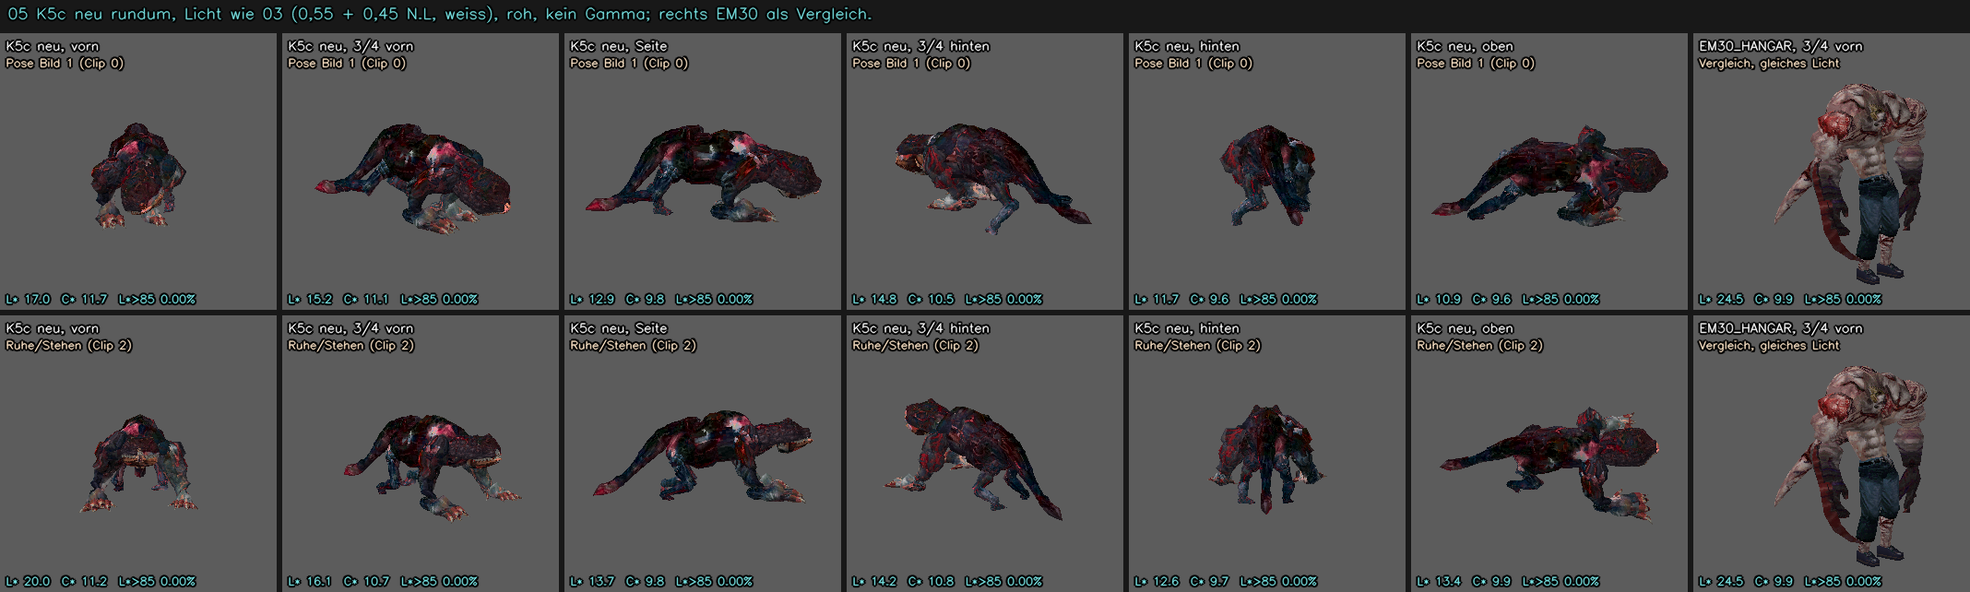
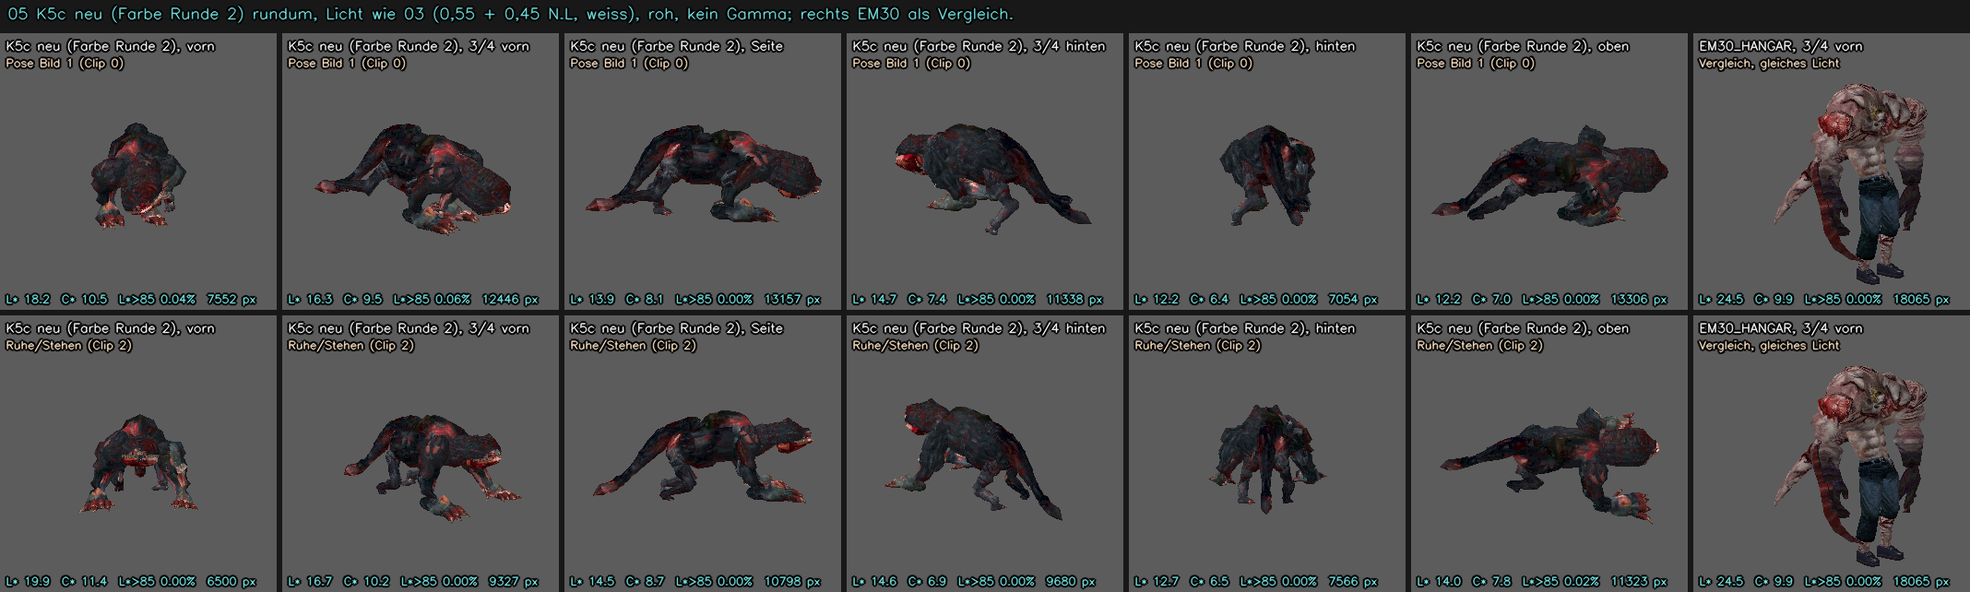
docs(form-farbe): Tafeln 01-07, Spiellauf mit K4-Vergleich und Dossier FARBE.md zur K5c-Farbe Runde 2
- Tafeln roh, kein Gamma: 01/02 nennen jetzt den Kanalfaktor k aus pruefung/licht.json (Befund r1),
  03 nennt die Figurgroesse in px (Fairness-Befund r1), 07 zeigt je Szene Original | K4 heute |
  K5c neu und wird von kf_tafeln.py 07 zusammengesetzt (vorher unversioniert).
- kf_spiel.sh --mit-heute: dieselben 5 Szenen ohne Kandidat (Spiel-Asset = K4 heute); echtes Fenster,
  gdigrab, eigene exe-Kopie, kein AUTOSHOT/SOFTWARE_RENDER. spiel.log 5/5 rc=0, spiel_heute.log 5/5 rc=0.
  Runde-1-Spielbilder nach farbe/spiel_r1.
- FARBE.md (Runde 2): Ursache in Zahlen, Vorgehen, Verbleib jeder Runde-1-Konstante, Laufprotokoll
  v0-e21, Herkunft je Atlasfeld, Riegel Soll/Ist mit Gegenproben, Tafeln, Tests 11/11, Offen O1-O7.
  Runde-1-Dossier als FARBE_r1.md.

diff --git a/analysis/befunde_runde41/form/varianten/K5/generator/kf_tafeln.py b/analysis/befunde_runde41/form/varianten/K5/generator/kf_tafeln.py
@@ -1,8 +1,8 @@
 #!/usr/bin/env python3
-"""K5c Farbe, Runde 1: Nutzer-Tafeln 01-06 nach MESSBLATT_FARBE_V1 Abschnitt 7 (roh, kein Gamma auf irgendeine Kachel; Szenenlicht neben dem
+"""K5c Farbe (Runde 1 und 2): Nutzer-Tafeln 01-07 nach MESSBLATT_FARBE_V1 Abschnitt 7 (roh, kein Gamma auf irgendeine Kachel; Szenenlicht neben dem
 Screenshot; Familienkachel mit gleichem Renderer und Licht; Zahlen L*, C*, L*>85 in der Beschriftung).
 
-    python kf_tafeln.py <neu-Ordner> <aus-Ordner>
+    python kf_tafeln.py <neu-Ordner> <aus-Ordner> [01 .. 07]     (Name der Variante: Umgebung KF_NAME, Standard 'K5c neu (Farbe Runde 2)')
 
 01_szene_bild1.png  Bild 1 Original | K4 heute | K5c neu: Zeile 1 Spiellicht roh (form_pruefung.Kandidat.rendern 'mess'), Zeile 2 durch
                     form_video.video_filter (entzerren=False, rauschen=True) wie die Abfilmung
@@ -12,6 +12,7 @@ Screenshot; Familienkachel mit gleichem Renderer und Licht; Zahlen L*, C*, L*>85
 05_rundum_neu.png   K5c neu in Pose Bild 1 (Clip 0) und Ruhe/Stehen (Clip 2), 6 Winkel, Licht wie 03; EM30 als Vergleichskachel je Zeile
 06_kopf_nah.png     Kopf/Kiefer: Zeile 1 Bild-2-Ausschnitt x 200-360, y 290-420, 3-fach: Original | Original T | K5c neu Kette | K5c heute Kette;
                     Zeile 2 Kopf+Kiefer (Mesh 21-23) neu, K5c heute und RE2-G4-Kopf (Mesh 26) unter dem Licht von 03, 3 Winkel"""
+import json
 import math
 import os
 import sys
@@ -33,6 +34,8 @@ K5 = os.path.normpath(os.path.join(HIER, '..'))
 K4 = os.path.join(K5, 'K4_heute')
 K5C = os.path.join(K5, 'K5c')
 GRUND = 92      # Hintergrund der render.blick-Kacheln (render.py)
+NEU = os.environ.get('KF_NAME', 'K5c neu (Farbe Runde 2)')
+LICHT_K = json.load(open(os.path.normpath(os.path.join(K5, '..', '..', 'pruefung', 'licht.json')), encoding='utf-8'))   # form_pruefung.licht_fuer
 
 
 class _Tex:
@@ -54,7 +57,7 @@ def re2_mo(kind):
 
 def masse_text(img, msk):
     m = R.masse(img, msk)
-    return 'L* %.1f  C* %.1f  L*>85 %.2f%%' % (m['L'], m['C'], m['hell85'])
+    return 'L* %.1f  C* %.1f  L*>85 %.2f%%  %d px' % (m['L'], m['C'], m['hell85'], m['px'])
 
 
 def kachel(img, titel, unter=None, zeile2=None):
@@ -95,24 +98,25 @@ def szene(n, neu, aus):
     zeilen = []
     for art in ('sauber', 'video'):
         ks = [kachel(o[y0:y1, x0:x1], 'Bild %d Original (Video-Standbild)' % n, None, 'roh, kein Gamma')]
-        for nm, d in (('K4 heute (Spiel-Asset)', K4), ('K5c neu (Farbe Runde 1)', neu)):
+        for nm, d in (('K4 heute (Spiel-Asset)', K4), (NEU, neu)):
             k = PZ.P.Kandidat(os.path.join(d, 'form.json'))
             s, alb, m, kk = k.rendern(n)
             if art == 'video':
                 s = np.asarray(PZ.FV.video_filter(s, bild=n, entzerren=False, rauschen=True), np.uint8)
-            t2 = ('Spiellicht %s, roh, kein Gamma' % ('ROOM5080' if n == 1 else 'ROOM5090 Cut 11')) if art == 'sauber' else \
-                'Spiellicht + Videofilter (form_video), kein Gamma'
+            kk_ = '/'.join(('%.2f' % v).replace('.', ',') for v in LICHT_K['bild%d' % n]['k'])
+            t2 = ('Disc-Licht %s x k (%s), roh' % ('5080 Cut 2' if n == 1 else '5090 Cut 11', kk_)) if art == 'sauber' else \
+                'dasselbe + Videofilter (form_video), roh'
             ks.append(kachel(s[y0:y1, x0:x1], nm, None, t2))
         zeilen.append(H.reihe([cv2.resize(k, (k.shape[1] * 2, k.shape[0] * 2), interpolation=cv2.INTER_NEAREST) for k in ks]))
     t = H.stapel(zeilen)
-    kopf = H.kopfzeile('%02d Bild %d: Original | K4 heute | K5c neu. Zeile 1 Spiellicht roh, Zeile 2 durch den Videofilter wie die Abfilmung. '
-                       'Kein Gamma, keine Aufhellung.' % (n, n), t.shape[1])
+    kopf = H.kopfzeile('%02d Bild %d: Original | K4 heute | %s. Z.1 Disc-Licht x Kanalfaktor k (pruefung/licht.json, beide gleich), '
+                       'Z.2 + Videofilter. Kein Gamma.' % (n, n, NEU), t.shape[1])
     cv2.imwrite(aus, H.stapel([kopf, t]))
 
 
 def familie(neu, aus):
     modelle = [('EM30_HANGAR (Spiel, Clip 0)', fl.lade_em30(), 0), ('RE2-G5 (Typ 0x36, Clip 0)', re2_mo(0x36), 0),
-               ('RE2-G4 (Typ 0x34, Clip 0)', re2_mo(0x34), 0), ('K5c neu (Clip 2 Ruhe)', fl.lade_var(neu), 2),
+               ('RE2-G4 (Typ 0x34, Clip 0)', re2_mo(0x34), 0), (NEU + ' (Clip 2)', fl.lade_var(neu), 2),
                ('K4 heute (Clip 2)', fl.lade_var(K4), 2)]
     zeilen = []
     for wt, az, el in R.WINKEL:
@@ -122,8 +126,8 @@ def familie(neu, aus):
             ks.append(kachel(img, nm, masse_text(img, msk), '%s, Licht 0,55+0,45 N.L, roh' % wt))
         zeilen.append(H.reihe(ks))
     t = H.stapel(zeilen)
-    kopf = H.kopfzeile('03 Familie: gleicher Renderer (form_buehne.rastern), gleiches weisses Licht, gleiche Groesse (Umkugel 0,46), roh, kein Gamma. '
-                       'Masse nur Figurpixel.', t.shape[1])
+    kopf = H.kopfzeile('03 Familie: gleicher Renderer, gleiches weisses Licht, Umkugel 0,46, roh, kein Gamma. Masse nur Figurpixel; px = Figurgroesse '
+                       '(Vierbeiner ~halb so viele Pixel wie G4).', t.shape[1])
     cv2.imwrite(aus, H.stapel([kopf, t]))
 
 
@@ -144,7 +148,7 @@ def palette_feld(rgb, breite):
 def atlas(neu, aus):
     from p_messen import atlas as p_atlas
     ks = []
-    for nm, mo in (('EM30_HANGAR (Spiel)', PL.em30()), ('K5c neu', PL.var(neu)), ('K5c heute', PL.var(K5C))):
+    for nm, mo in (('EM30_HANGAR (Spiel)', PL.em30()), (NEU, PL.var(neu)), ('K5c heute', PL.var(K5C))):
         per, _ = PL.sammeln(mo)
         rgb, mid = p_atlas(mo, per)
         im = rgb.copy()
@@ -174,12 +178,12 @@ def rundum(neu, aus):
         ks = []
         for wt, az, el in WINKEL6:
             img, msk = R.blick(mo, R.kf(mo, c), az, el, 300, None)
-            ks.append(kachel(img, 'K5c neu, %s' % wt, masse_text(img, msk), nm))
+            ks.append(kachel(img, '%s, %s' % (NEU, wt), masse_text(img, msk), nm))
         img, msk = R.blick(em, R.kf(em, 0), 45, 15, 300, None)
         ks.append(kachel(img, 'EM30_HANGAR, 3/4 vorn', masse_text(img, msk), 'Vergleich, gleiches Licht'))
         zeilen.append(H.reihe(ks))
     t = H.stapel(zeilen)
-    kopf = H.kopfzeile('05 K5c neu rundum, Licht wie 03 (0,55 + 0,45 N.L, weiss), roh, kein Gamma; rechts EM30 als Vergleich.', t.shape[1])
+    kopf = H.kopfzeile('05 ' + NEU + ' rundum, Licht wie 03 (0,55 + 0,45 N.L, weiss), roh, kein Gamma; rechts EM30 als Vergleich.', t.shape[1])
     cv2.imwrite(aus, H.stapel([kopf, t]))
 
 
@@ -189,7 +193,7 @@ def kopf_nah(neu, aus):
     T, _c = PZ.rueck(o, 2)
     ks = [kachel(o[y0:y1, x0:x1], 'Original Bild 2', None, 'Video, roh'), kachel(np.clip(T, 0, 255).astype(np.uint8)[y0:y1, x0:x1], 'Original T',
                                                                                     None, 'zurueckgerechnet (p_zonen.rueck)')]
-    for nm, d in (('K5c neu', neu), ('K5c heute', K5C)):
+    for nm, d in ((NEU, neu), ('K5c heute', K5C)):
         k = PZ.P.Kandidat(os.path.join(d, 'form.json'))
         s, alb, m, kk = k.rendern(2)
         v = np.asarray(PZ.FV.video_filter(s, bild=2, entzerren=False, rauschen=True), np.uint8)
@@ -200,7 +204,7 @@ def kopf_nah(neu, aus):
     g4 = re2_mo(0x34)
     for wt, az, el in (('3/4 vorn', 60, 10), ('Seite', 0, 5), ('unten vorn', 80, -30)):
         ks = []
-        for nm, mo, c, teile in (('K5c neu Kopf+Kiefer', fl.lade_var(neu), 1, (21, 22, 23)), ('K5c heute Kopf+Kiefer', fl.lade_var(K5C), 1, (21, 22, 23)),
+        for nm, mo, c, teile in ((NEU + ' Kopf+Kiefer', fl.lade_var(neu), 1, (21, 22, 23)), ('K5c heute Kopf+Kiefer', fl.lade_var(K5C), 1, (21, 22, 23)),
                                  ('RE2-G4 Kopf (Mesh 26)', g4, 0, (26,))):
             img, msk = blick_teile(mo, R.kf(mo, c), az, el, 300, teile)
             ks.append(kachel(img, nm, masse_text(img, msk), '%s, Licht wie 03, roh' % wt))
@@ -211,10 +215,40 @@ def kopf_nah(neu, aus):
     cv2.imwrite(aus, H.stapel([kopf, t]))
 
 
+SPIEL = (('spiel_pose1_nachstellung_r5080.png', 1, 'ROOM5080 Schnitt 1, Nachstellung Bild 1 (Clip 0)'),
+         ('spiel_pose1_r5080_s1.png', 1, 'ROOM5080 Schnitt 1, Lage Bild 1 (Clip 0)'),
+         ('spiel_ruhe_r5080_s1.png', 1, 'ROOM5080 Schnitt 1, Ruhe (Clip 2)'),
+         ('spiel_pose2_r5090_s11.png', 2, 'ROOM5090 Schnitt 11, Pose Bild 2 (Clip 1)'),
+         ('spiel_ruhe_r5090_s11.png', 2, 'ROOM5090 Schnitt 11, Ruhe (Clip 2)'))
+
+
+def spiel(spd, aus):
+    """07: je Zeile Original-Standbild (Bild 1 bzw. 2) | K4 heute im Spiel | Variante im Spiel. Spielbilder aus kf_spiel.sh (gdigrab), unbearbeitet."""
+    zeilen = []
+    for f, n, txt in SPIEL:
+        a = os.path.join(spd, 'heute_' + f)
+        b = os.path.join(spd, f)
+        if not (os.path.exists(a) and os.path.exists(b)):
+            continue
+        o = cv2.imread(PZ.FORM + '/bild%d.png' % n)
+        ks = [o, cv2.imread(a), cv2.imread(b)]
+        ks = [cv2.resize(k, (640, 480), interpolation=cv2.INTER_NEAREST) if k.shape[:2] != (480, 640) else k.copy() for k in ks]
+        for k, t in zip(ks, ('Original Bild %d (Video-Standbild)' % n, 'K4 heute im Spiel: ' + txt, NEU + ' im Spiel: ' + txt)):
+            H.schrift(k, t, 6, 18, 0.45)
+            H.schrift(k, 'echtes Fenster (gdigrab), roh, kein Gamma', 6, 36, 0.4, (200, 230, 255))
+        zeilen.append(H.reihe(ks))
+    t = H.stapel(zeilen)
+    kopf = H.kopfzeile('07 Spiel: eigene exe-Kopie, Kandidat ueber RE15_RE2_ASSET_ROOT (re15_port/tools/form_spiel.sh), echtes Fenster, kein AUTOSHOT, '
+                       'kein SOFTWARE_RENDER. Links das Original-Standbild derselben Szene.', t.shape[1])
+    cv2.imwrite(aus, H.stapel([kopf, t]))
+
+
 if __name__ == '__main__':
     neu, ausd = sys.argv[1], sys.argv[2]
     os.makedirs(ausd, exist_ok=True)
     nur = sys.argv[3:] or ['01', '02', '03', '04', '05', '06']
+    if '07' in nur:
+        spiel(os.path.join(ausd, 'spiel'), os.path.join(ausd, '07_spiel.png'))
     if '01' in nur:
         szene(1, neu, os.path.join(ausd, '01_szene_bild1.png'))
     if '02' in nur:

diff --git a/analysis/befunde_runde41/form/varianten/K5/FARBE.md b/analysis/befunde_runde41/form/varianten/K5/FARBE.md
@@ -1,0 +1,192 @@
+# K5c Farbe, Runde 2 von 3 (Bauer, 2026-11-06)
+
+Auftrag: Orchestrator, Spur Form. Die Riesenform K5c ("eher c") neu texturieren nach `MESSBLATT_FARBE_V1.md` und jeden Befund der Pruefung
+Runde 1 (`FARBE_PRUEFUNG_r1_sicht.md`, `FARBE_PRUEFUNG_r1_zahlen.md`) beheben. Runde 1 steht in `FARBE_r1.md`, ihre Variante in `farbe/K5c_farbe_r1/`.
+Geometrie, Clips, UV, Dreiecke unveraendert: `farbe/K5c_farbe/FORM.EMD` = `farbe/K5C_FARBE.EMD` = `K5c/FORM.EMD` (cmp, sha256 a71f8d08...), 3828 Flaechen.
+Neu ist nur `FORM.TIM` (Texelindizes und 4 CLUT-Zeilen, gleiches Atlas-Layout). Kein RE-Wert: neues Modell (PORT-WAHL, NUTZER_ENTSCHEIDE E5/E19/E20).
+Seiten: (W) = aus Sicht des Wesens. Lab = CIE-Lab D65 (OpenCV float).
+
+## 0. Ergebnis
+
+**Riegel 24/29 GRUEN, Exit 1.** ROT: K1, K2, N1, B1, B2 (Abschnitt 4). Die Gegenproben sind sauber: K5c heute 3/29 (nur die Halteriegel A10-A12),
+Runde 1 bei allen fuenf Befund-Riegeln B1-B5 ROT. Die Riegel messen also etwas.
+
+| | K5c heute | Runde 1 | **Runde 2** |
+|---|---|---|---|
+| Riegel (Messblatt 24 + Befund 5) | 3/29 | 24/24 + B 0/5 | **24/29** |
+| Neutralweiss A5 / Glanzrest B4 (p90 L\* ehem. Keime, <= 58) | 0,79 % / 100 | 0,00 % / 80,1 (gestaucht) | **0,00 % / 47,8 (entfernt)** |
+| Blau-Klasse im neutralen Render B3 (<= 0,10 %) | 2,4-5,0 % | 11,4-16,0 % | **0,00 %** |
+| Rot erosionsfest B1 (>= 32,1 %) / groesste Rotflaeche B2 (>= 3,2 %) | 21,5 / 1,19-0,61 | 20,0 / 3,26-1,70 | **28,0 / 3,65-2,45** |
+| Kopf-Gaumenklasse B5 (<= 2 %) | 15,1 % | 9,0 % | **1,0 %** |
+| Rot-Farbton A4 (15-50 Grad) | -10 | 19 (Median 16) | **26** |
+| Koerper C\* / Fleischrot (A1 / A3) | 4,9 / 0,5 % | 12,9 / 15,1 % | 11,8 / 22,4 % |
+| Bild-1-Kette C\* / ab-Streuung (K1 >= 7,9 / K2 >= 8,36) | 6,3 / 6,3 | 8,6 / 9,9 | **6,5 / 8,0 ROT** |
+| Neutraler Render C\* (N1 >= 7,5 / 9,4 / 7,9) | 4,6 / 5,0 / 4,0 | 10,7 / 9,8 / 10,7 | **10,2 / 8,8 / 6,9 ROT** |
+
+Ergebnis-Dateien: `farbe/K5C_FARBE.EMD` + `farbe/K5C_FARBE.TIM`, Variantenordner `farbe/K5c_farbe/` (FORM.EMD, FORM.TIM, form.json, bau.json mit
+Herkunft je Atlasfeld, masken.npz). Kopie im Scratchpad `formfarbe/emd/K5C_FARBE.EMD/.TIM`. Spiel-Asset `re15_port/shared_assets/RE2/BAHNSTEIG_FORM.*`
+und Pins unveraendert.
+
+## 1. Ursache der Ablehnung in Zahlen (Messblatt, Gegenprobe K5c heute)
+
+"Pokemon" = grau + Magenta-Augen + Creme-Maul + Weissflecken + Tafel-Aufhellung: Koerper C\* 4,9 gegen Familie 9,3-19,8; Fleischrot 0,5 % bei -10 Grad
+(Familie 11,5-38 % bei 25-48 Grad); sigma_ab je Teil 4,0 gegen 7,4-10,7; Kiefer 77 % Creme, HF 0,461; Augen (207,95,161) C\* 54; 0,79 % silberweisse
+Koerpertexel; Gamma 0,5/0,6 nur auf K5c. `riegel_farbe.py --gegenprobe K5c` ergibt dieselben Zahlen (Abschnitt 4, rechte Spalte).
+
+Runde 1 hatte das behoben, aber zwei neue "Pokemon"-Merkmale erzeugt (Sicht-Pruefer r1): **P1** alles Rot als helles Adernetz auf dunklem Grund
+(Erosionsrest 14-24 %, groesste Rotflaeche 286-483 px, Adern heller als die Haut), **P2** stahlblaugraue Beine (Blau-Klasse 10,6-14,7 %). Dazu
+(Zahlen-Pruefer r1) Glanzflecken nur gestaucht (ehemalige Weisstexel Lab (72,9/7,9/1,5)), beiger Gaumenstreifen x 500-511, Konstanten ohne Quelle.
+
+## 2. Vorgehen (`generator/kf_mal2.py`, Runde 1 `kf_mal.py` bleibt fuer den Nachbau unveraendert)
+
+Je Texel (Lab), Reihenfolge wie im Code:
+
+1. **Glanz und Gaumen entfernen** (Zahlen-Pruefer 6.1/6.6, Sicht-Pruefer P4): Keim = Neutralweiss nach A5 (L\* > 85, C\* < 10), Hof = angrenzende
+   Texel mit L\* > 58 (hellstes Original-Band, Messblatt 2 "T L\* 51-58"); Gaumen = Zahnklasse im Kopffeld (L\* > 60, C\* < 35, Messblatt 3) mit
+   demselben Hof. 881 + 2324 Texel werden im Ausgangsbild K5c **harmonisch aus der Umgebung gefuellt** (Laplace je Atlasfeld, kein Radius).
+   Keine Stauchung oberhalb L\* 70 mehr.
+2. **Grundton** = K5c-Grobbild (Gauss 2,5 Texel, normiert im Feld; Quelle kf_mal.py:40-42) mit a\*b\* x 1,48 (Messblatt 2).
+3. **Haut-Form** aus RE2-G4: Hautquellen mit Aderanteil <= 10 % (`G4_HAUT2`, Abschnitt 3), Helligkeits- und Farbform = Quelle minus Grobbild, aber
+   aus dem G4-Bild **ohne seine Adern** (Adern harmonisch gefuellt), sonst trug die Malform den roten Aderhof als Sprenkel (Lauf r2-v0). Die G4-Adern
+   selbst: L\* = 0,85 x Haut (EM30-Adern 23 gegen Haut 27, Sicht-Pruefer P1), C\* <= 1,50 x L\* (G4-Dunkelrot (18,9/25,6/12,2), Messblatt 1),
+   am Ende nach allen Versaetzen erneut begrenzt. 4449 Texel = 5,9 % der Haut.
+4. **Fleischflaechen** (P1): Anteil roter Original-Bildpunkte je Texel (Pruefer-Rotklasse, Bild 2 nach Abzug der Einstreuung a\* 12,8 = Kette 15,5
+   minus Albedo 2,7, Messblatt 2), im Feld harmonisch fortgesetzt (E11), Gauss 2,5 (E12/E13), **Mehrheitsschwelle 0,5** (E14). Material: G4-Fleisch
+   (181,224,20,30) und (179,229,24,24), in L\* und C\* auf das Mittel der Familienwunden skaliert (Sicht-Pruefer P5: EM30 (50/26/13), G4 (53/27/23)
+   -> (51,5/26,5/18,0)), Farbton der Quelle. **Verdeckte Unterseite**: die 23,9 % der Hauttexel mit der staerksten Normalen nach unten (Ruhepose
+   Clip 2, `kf_geo.py`; 23,9 % = G4-Fleischrot, Messblatt 1), nur nie gesehene Texel (E14), Kopffeld ausgenommen, Uebergang ueber 1,2 x 23,9 %
+   (Umring 19-20 %, P5), in der dunklen G4-Rotstufe (18,9/25,6/12,2). Fleisch gesamt 17 210 Texel (23,0 % der Haut).
+5. **Kiefer, Krallen** wie Runde 1 (G4-Maul (10,44,60,40) 90 Grad gedreht, G4-Krallen (231,200,20,50)); Kopienzahl = Umfang / Quellbreite
+   (5 bzw. 8), Zeilenversatz gleichverteilt (j x Hoehe / Kopien).
+6. **Zonenversatz** (Eichung gegen die Kette, Messblatt 2): sichtbare Texel nach Bildpunkten je Zone, verdeckte harmonisch im Feld.
+   **Zone = Bauteil**: die Bildzone Unterkiefer wirkt nur auf das Kieferfeld, alle anderen nie darauf. Runde 1 traf ueber die Unterkiefer-Zone
+   (L\* +38,7) hand_r (217 px), Kopf (502 px) und Unterschenkel (107 px): Ursache der hellen Pfote (Sicht-Pruefer P3) und eines Teils der Glanzreste.
+7. **Farbwechsel aus dem Original** (E10/E11, K2): je sichtbarem Hauttexel a\*b\* minus Zonenmittel der Original-Bildpunkte, ohne die roten Bildpunkte
+   (die tragen die Fleischflaeche), harmonisch fortgesetzt, Gauss 0,7 (E13).
+8. Zaehne (Bild-2-Zahnflecken (79,6/1,4/9,5), Verlauf auf 45/80 = 0,56 zum Grund), Augen (E24 (13,4/15,8/6,9)), Augenumfeld r 6 px (218 Texel),
+   E9-Schwanzausgleich (Gerade durch die Glied-Mittel 1-5).
+9. **Farbfenster**: Farbton -55..25 Grad bei C\* > 14,5 auf **25 Grad** gedreht (EM30-Rot, Messblatt 1; Runde 1: 10); ausserhalb -55..80 Grad
+   C\* <= 5,5 (Runde 1, Quellen dort); **b\* >= -6** (Blau-Klasse P2; Runde 1 liess -125..-55 Grad bis C\* 14,5 offen). Gemessen am Original Bild 1:
+   29,9 % der Figurpixel liegen in der Blau-Klasse; mit b\* auf -6 gekappt bleibt C\* 7,99, mit Chroma-Skalierung 7,40 (deshalb Kappung).
+10. **CLUT**: k-Mittel je Zeile (255 Farben, Saat 7), 5-Bit-Stufen **gerundet** statt abgeschnitten (Zahlen-Pruefer r1 A8 +2,5), danach Blau-Regel an der
+    Spielfarbe (Dekodierung x 255 // 31): 20 Stufen gesenkt, sonst kippen dunkle Farben durch eine Blaustufe in die Blau-Klasse.
+
+**Eichung** (`kf_mal2.py eichen`, Verlauf `generator/kf_eich2.json`, 67 Runden ueber alle Laeufe): nur noch Zonenversatz L\*/a\*/b\* (10 Zonen) und
+Augenhelligkeit (Ziel Original L\* max 22,1). Klauen: L\* und b\* nicht geeicht (Feuerschein, Messblatt K9), a\* nur nach oben (K9 ist Untergrenze).
+b\*-Versatz begrenzt, bis der Texel mit dem groessten b\* der Zone an b\* -6 liegt (darueber wirkungslos; Lauf r2-e18 ohne Grenze: d_b -147).
+Keine Aderstaerke g, keine Fleischschwelle, keine Farbkraft in der Eichung. Endwerte (L\*, a\*, b\*): Schwanz (-2,6/-2,2/-11,5), Ruecken/Flanke
+(-6,6/-4,1/-16,8), Hinterbein l (W) (0,4/2,3/-17,1), Hinterbein r (W) (-3,0/-1,0/-24,3), Vorderglied r (W) (-2,2/-6,2/-11,2), Oberkiefer (-5,0/10,8/-15,2),
+Kopf/Rumpf (-1,8/1,1/-2,1), Unterkiefer (82,4/31,2/19,0), Klauen 0. Restfehler der letzten Runde dE max 8,0 (Klaue r (W), b\* Feuerschein, kein Riegel).
+Verfahrensparameter: Schrittweite 0,8, Saat 7. `kf_mal2.py bauen` aus `kf_eich2.json` ist byte-gleich wiederholbar (cmp).
+
+**Konstanten ohne Quelle aus Runde 1 (Zahlen-Pruefer 4), Verbleib:** `np.clip(g, 0, 2.5)` und g selbst entfallen; `clip(fleisch_k, 0.2, 1.5)`,
+`max(4.0, auge)` und `deck > 0.2`, `deck/0.5`, `cov/0.5`, `gd/0.05` entfallen (harmonische Fortsetzung, Mehrheitsschwelle); Stauchung L\* > 70 (0,25)
+entfaellt (Glanz entfernt); Kachelversaetze `7*i`, `11*j`, `9*j`, `auf_hoehe(5)` ersetzt durch gleichverteilte Versaetze aus der Quellhoehe; Ueberblendung
+= 2 x SIG_GROB (5); D_MAX ersetzt durch die Fenstergrenze B_MIN; Augen-Reserve 26 ersetzt durch das Original 22,1; K_FEIN, G_L, SIG_ERG, SIG_NAEHE,
+K_VERDECKT und naehe^3 entfallen. Verbleibende PORT-WAHL mit Nutzerentscheid: SIG_AB_FEIN 0,7 (E13), Mehrheitsschwelle 0,5 (E14).
+
+### Laufprotokoll (Scratchpad `formfarbe/r2/v0 ... e21`)
+
+| Lauf | Aenderung | Befund |
+|---|---|---|
+| v0 | erster Bau: Glanz entfernt, Adern dunkel, Fleisch nur Screenshot | Blau 0,8-1,6 %, Rot nur Sprenkel (Erosion 6-20 %), Gaumen-Rest x 384-392 |
+| v1-v2 | Gaumen-Hof, G4-Malform ohne Adern, Hautquellen <= 10 % Adern, Unterseite 23,9 % | Blau 0 %, ruhiger; Rot zerfaellt im Render weiter |
+| e1-e2 | Eichung; Farbton der Haut >= -14 Grad (Projektion / C\* <= 6) | K1 6,2, K2 6,8, N1 6,9-9,1 ROT -> verworfen |
+| e3 | Zone = Bauteil (Unterkiefer), b\* >= -6 | Pfote nicht mehr hell; 23/29 |
+| e4-e7 | Farbwechsel aus dem Original; Farbkraft-Eichung auf K1 bzw. K4 | K1 8,7 nur mit K4 9,9-10,2 % (Fleisch verdraengt); Ziel K4 entsaettigt auf 0,74 -> verworfen |
+| e8-e12 | Klauen L\*/b\* fest, Kieferkante weich, G4-Rose, weiche Unterseite | 25/29; Unterseite als rote Saeume an Umrisskanten |
+| e13 | ohne Unterseite | A1 8,8, A3 8,4 knapp, B1 28 -> verworfen (A1 ROT) |
+| e14-e17 | Unterseite dunkelrot (G4-Stufe), Kopf ausgenommen, Versaetze aus Massen | 25/29 (K1, N1, B1, B2) |
+| e18 | Rose raus, Fleisch auf Familienwunde skaliert (Z1 in Tafel 01 knallrot statt rosa) | 24/29 (K2 8,1) |
+| e19-e21 | b\*-Eichung begrenzt (Zonenmittel, dann Zonenmaximum) | **24/29, Endstand** |
+
+## 3. Herkunft der Atlasfelder (`farbe/K5c_farbe/bau.json` "herkunft")
+
+| Feld (Atlas) | Herkunft |
+|---|---|
+| Koerper Seiten 0-2 (46 Felder aus `J_dicker/bau.json`) und Kopf (384,0,128,104) | K5c-Grobbild ohne Glanz/Gaumen (Gauss 2,5) mit a\*b\* x 1,48 + RE2-G4-Hautform aus (130,96,20,62), (190,96,20,60), (314,12,32,30), (269,4,24,32), (29,152,24,32) (G4-Atlas wie `p_lade.re2(0x34)`; Aderanteil 6 / 9 / 7 / 0 / 9,5 %), Startquelle = Feldnummer; G4-Adern dunkel; Fleisch wo Bild 1/2 mehrheitlich Rot zeigen aus G4 (181,224,20,30) / (179,229,24,24) skaliert auf (51,5/26,5/18,0); verdeckte Unterseite G4-Fleisch in der Stufe (18,9/25,6/12,2); Zonenversatz; Farbwechsel aus dem Original |
+| Kiefer (384,106,128,72) | RE2-G4-Maul (10,44,60,40), 90 Grad gedreht, 5 Kopien um den Umfang, Zeilenversatz j x 40 / 5, Ueberblendung 5 Texel; L\*-Versatz nur am sichtbaren Band, Kante Gauss 2,5 |
+| Zaehne (384,180,24,14) | gemalt: Bild-2-Zahnflecken Lab (79,6/1,4/9,5), L\* zum Grund x 0,56 |
+| Krallen (410,180,100,40) | RE2-G4-Krallen (231,200,20,50), 8 Kopien, Zeilenversatz j x 50 / 8 |
+| Augen (384,196,24,10) + 218 Texel Augenumfeld | gemalt: E24 (13,4/15,8/6,9) |
+
+Die G4-Rechtecke sind voll gedeckt (Suche nach gedeckten Rechtecken mit kleinstem bzw. groesstem Rotanteil im G4-Atlas, Schulterauge x 270-321,
+y 160-245 ausgenommen); Maul und Krallen zu 84 / 82 % gedeckt, Luecken aus dem Umfeld (kf_mal.ausschnitt).
+
+## 4. Riegel Soll / Ist (`python generator/riegel_farbe.py farbe/K5c_farbe --gegenprobe K5c --gegenprobe-r1 farbe/K5c_farbe_r1`, `farbe/riegel_K5c_farbe.json/.txt`)
+
+| # | Soll | Runde 2 | K5c heute | Runde 1 |
+|---|---|---|---|---|
+| A1 Koerper C\* | 9,5-21 | 11,8 GRUEN | 4,9 | 12,9 |
+| A2 sigma_ab je Teil | >= 7,0 | 13,1 GRUEN | 4,0 | 11,9 |
+| A3 Fleischrot | 8-40 % | 22,4 GRUEN | 0,5 | 15,1 |
+| A4 Rot-Farbton | 15-50 Grad | 26 GRUEN | -10 | 19 |
+| A5 Neutralweiss | <= 0,20 % | 0,00 GRUEN | 0,79 | 0,00 |
+| A6 HF_fft Koerper/Kopf/Kiefer/Kralle | 0,04-0,26 | 0,091/0,153/0,047/0,064 GRUEN | Kiefer 0,461 | 0,164/0,109/0,068/0,063 |
+| A7 HF_rest | <= 0,19 | max 0,065 GRUEN | 0,436 | 0,092 |
+| A8 Kiefer Zahn/Rot/Dunkel | 2-20 / >= 20 / >= 20 % | 6,1 / 95,7 / 39,2 GRUEN | 77,1/0/0 | 2,7/33,8/44,5 |
+| A9 Auge L\*/C\* | <= 30 / <= 30 | 13,1 / 18,0 GRUEN | 56,1/53,7 | 13,1/18,0 |
+| A10 Texeldichte | 0,5-2,7 | 0,64-2,33 GRUEN | gleich | gleich |
+| A11 Schwanzsprung | <= 4,0 | 1,4 GRUEN | 3,4 | 0,5 |
+| A12 Farbkorn | <= 5,7 | 4,54 GRUEN | 2,63 | 4,40 |
+| K1 Bild 1 C\* | 7,9-11,1 | **6,5 ROT** | 6,3 | 8,6 |
+| K2 Bild 1 ab-Streuung | >= 8,36 | **8,0 ROT** | 6,3 | 9,9 |
+| K3 Bild 1 dE je Zone | <= 6 | max 5,4 (Hinterbein r (W)) GRUEN | 8,3 | 1,3 |
+| K4 Bild 1 Rotklasse | 3,1-7,8 % | 6,2 GRUEN | 2,5 | 6,9 |
+| K5 Bild 1 Hell Ruecken / geclippt | <= 14,9 / <= 0,8 % | 4,7 / 0,4 GRUEN | 21,9/1,0 | 6,8/0,1 |
+| K6 Bild 2 Figur dE / C\* | <= 6 / >= 21,8 | 1,5 / 23,8 GRUEN | 9,9/16,7 | 2,7/22,7 |
+| K7 Bild 2 Unterkiefer dE / a\* | <= 6 / >= 21,2 | 0,0 / 24,9 GRUEN | 12,4/13,7 | 0,2/24,8 |
+| K8 Bild 2 Oberkiefer dE | <= 6 | 1,4 GRUEN | 12,0 | 0,6 |
+| K9 Bild 2 Klauen a\* r/l | >= 18,1 / 16,7 | 26,1 / 28,3 GRUEN | 13,8/22,8 | 24,1/22,5 |
+| K10 Bild 2 Augen L\* max | <= 30 | 14,3 / 15,9 GRUEN | 51,5/36,2 | 13,5/15,9 |
+| N1 neutral C\* (EM30 10,0/12,5/10,5) | >= 0,75 x EM30 | 10,2 / **8,8 / 6,9 ROT** | 4,6/5,0/4,0 | 10,7/9,8/10,7 |
+| N2 neutral L\* > 85 | <= 0,10 % | 0 / 0 / 0 GRUEN | 0,83/1,30/0,11 | 0/0/0 |
+| B1 Rot erosionsfest (3 Winkel zus.) | >= 32,1 % (EM30; G4 41,4, G5 52,4) | **28,0 ROT** | 21,5 | 20,0 |
+| B2 groesste Rotflaeche / Figur (3/4 vorn, Seite) | >= 3,2 % (G4 Seite; EM30 3,59) | 3,65 / **2,45 ROT** | 1,19/0,61 | 3,26/1,70 |
+| B3 Blau-Klasse je Winkel | <= 0,10 % (G4/G5 0,0) | 0,00 GRUEN | 3,9/5,0/2,4 | 11,4/15,5/16,0 |
+| B4 Glanzrest p90 L\* ehem. Keime | <= 58 (hellstes Band) | 47,8 GRUEN | 100 | 80,1 |
+| B5 Kopffeld Gaumen-/Zahnklasse | <= 2,0 % | 1,02 GRUEN | 15,1 | 9,0 |
+
+B1-B5 sind neu (Befunde r1). Grenzen aus der Familie mit demselben Code (`riegel_farbe.py --familie`); B1/B2 relativ zur Figur statt der 34 % / 1000 px
+des Sicht-Pruefers, weil K5c in derselben Umkugel nur etwa halb so viele Pixel deckt wie G4 (Fairness-Befund des Sicht-Pruefers) und EM30 (gelobter
+Stand derselben Kreatur) die Familienuntergrenze stellt.
+
+**Warum K1/K2/N1 rot bleiben (gemessen, kein Platzhalter):** Die Bild-1-Farbkraft des Originals (C\* 9,25) besteht zu 29,9 % aus Bildpunkten der
+Blau-Klasse. Ohne Blau (B3, Sicht-Pruefer P2 "Abweichung, die der Nutzer wieder ablehnen wuerde") traegt das Original selbst nur noch C\* 7,99
+(gekappt) bzw. 7,40 (skaliert), also an der K1-Grenze 7,9. Runde 1 erreichte K1 8,6 mit blauen Beinen und rotem Adernetz. Die fehlende Farbkraft
+aus warmen Toenen zu holen, kollidiert mit K4 (Laeufe e5/e6: K1 8,7 bei K4 9,9-10,2 % > 7,8). N1 (neutraler Render, Seite und 3/4 hinten) ist dieselbe
+Lage: die Rueckansicht entspricht Bild 1. **K1/K3-Ziel enthaelt das Video-Blau, B3 verbietet es** - das ist eine Entscheidung (Abschnitt 7, O1).
+B1/B2: Rot liegt jetzt als Flaechen (Schulter/Ruecken Z1, Kiefer, Krallen, Schwanzspitze; 3/4 vorn 3,65 % gruen), in der Seitenansicht ist die
+groesste Flaeche 2,45 %; mehr sichtbares Fleisch auf Ruecken/Flanke verbietet Bild 1 (K4, E14).
+
+## 5. Tafeln (`farbe/`, `generator/kf_tafeln.py`, Messblatt 7: roh, kein Gamma auf keiner Kachel)
+
+| Tafel | Inhalt |
+|---|---|
+| `01_szene_bild1.png` | Bild 1 Original - K4 heute - K5c neu (Runde 2); Zeile 1 Disc-Licht ROOM5080 Cut 2 x Kanalfaktor k (1,06/0,95/0,82, `pruefung/licht.json`, beide Modelle gleich; Befund r1 "k verschwiegen"), Zeile 2 durch form_video |
+| `02_szene_bild2.png` | dasselbe fuer ROOM5090 Cut 11 (k 1,20/1,12/1,00) |
+| `03_familie.png` | EM30_HANGAR - RE2-G5 - RE2-G4 - K5c neu - K4 heute, gleicher Renderer, Licht 0,55 + 0,45 N.L, Umkugel 0,46, 3 Winkel; L\*/C\*/L\*>85 und Figurpixel je Kachel |
+| `04_atlas.png` | EM30 - K5c neu - K5c heute, 2 Bildpunkte je Texel, je 8 Palettenfelder mit Lab und Anteil |
+| `05_rundum_neu.png` | K5c neu Pose Bild 1 (Clip 0) und Ruhe (Clip 2), 6 Winkel, Licht wie 03, EM30 als Vergleichskachel |
+| `06_kopf_nah.png` | Bild-2-Ausschnitt x 200-360, y 290-420 3-fach (Original, T, neu Kette, heute Kette); Kopf+Kiefer neu / heute / RE2-G4-Kopf |
+| `07_spiel.png` | echtes Spiel (eigene exe-Kopie, `generator/kf_spiel.sh --mit-heute` -> `re15_port/tools/form_spiel.sh`, gdigrab, kein AUTOSHOT/SOFTWARE_RENDER): je Zeile Original-Standbild - K4 heute im Spiel - K5c neu im Spiel; 5 Szenen (5080 Nachstellung, Lage Bild 1, Ruhe; 5090 Pose Bild 2, Ruhe). Einzelbilder `farbe/spiel/`, Logs `spiel.log` (neu, 5/5 rc=0) und `spiel_heute.log` (K4, 5/5 rc=0). Zusammengesetzt von `kf_tafeln.py ... 07` (versioniert, Befund r1). Runde-1-Spielbilder in `farbe/spiel_r1/` |
+
+## 6. Tests
+
+Bau `bash re15_port/tools/local_build.sh build`: LOCAL-BUILD-OK. `ctest -R "form|bahnsteig|birkin_form|r41_form" -j 3 --timeout 600`: **11/11 gruen**,
+nichts wiederholt, 95 s (unit_birkin_bahnsteig, unit_birkin_formen, unit_r41_form_emd, integration_r41_form_wagenweg, integration_r35_werfer_form,
+integration_r34_plattform_takt, integration_r34_plattform_esp_eintritt, unit_r34_plattform, unit_r34_plattform_ton, unit_r35_fenster_satzform,
+unit_r39_funk10f1_form).
+Das Spiel-Asset ist unveraendert; die Tests pruefen den Bestand, der Kandidat laeuft nur in 07.
+
+## 7. Offen
+
+| # | Punkt | Stand |
+|---|---|---|
+| O1 | **Blau gegen Bild-1-Farbkraft**: K1/K2/N1 verlangen die Bild-1-Farbkraft, die zu 30 % Video-Blau ist; B3/P2 verbieten blaue Haut. Entweder Blau-Stich an den Beinen zulassen (K1/N1 erreichbar, P2 kehrt zurueck) oder K1/N1 auf das Original ohne Blau-Klasse beziehen (C\* 7,99 -> Grenze 6,8) | Entscheidung Orchestrator/Nutzer |
+| O2 | Helligkeit: neutral L\* 14,6-16,3 (G4 17,0-21,6, EM30 24,5-29,0). Bild 1 verlangt das Dunkle (K3) | unveraendert seit Runde 1 |
+| O3 | Z1 (Rueckenfleck) ist jetzt warmes Familienrot (25 Grad); im Video wirkt er rosa-violett (Original T (54/17/-3), -10 Grad). Messblatt 1 nennt das K5c-Magenta einen Fehler, E14 verlangt die Screenshot-Farbe | Nutzer-Urteil an Tafel 01 |
+| O4 | Verdeckte Unterseite (23,9 %) ist eine Familien-Annahme (G4), kein Screenshot-Beleg (74 % der Texel unsichtbar); dunkelrot, damit sie an Umrisskanten nicht leuchtet | Nutzer-Urteil an 03/05 |
+| O5 | Kachelnaehte der G4-Hautquellen in grossen Feldern (O3 r1) bleiben schwach sichtbar; Versaetze jetzt gleichverteilt | klein |
+| O6 | K-Riegel sind weiter Eichziele (Zonenversatz); unabhaengig sind A, N und B. Gegenprobe mit anderem Rausch-Saatwert nicht wiederholt | zweiter Pruefer |
+| O7 | "von der Struktur" (Messblatt 8): nur Texturstruktur bearbeitet, Kopfform K5c unveraendert | Nutzer |
